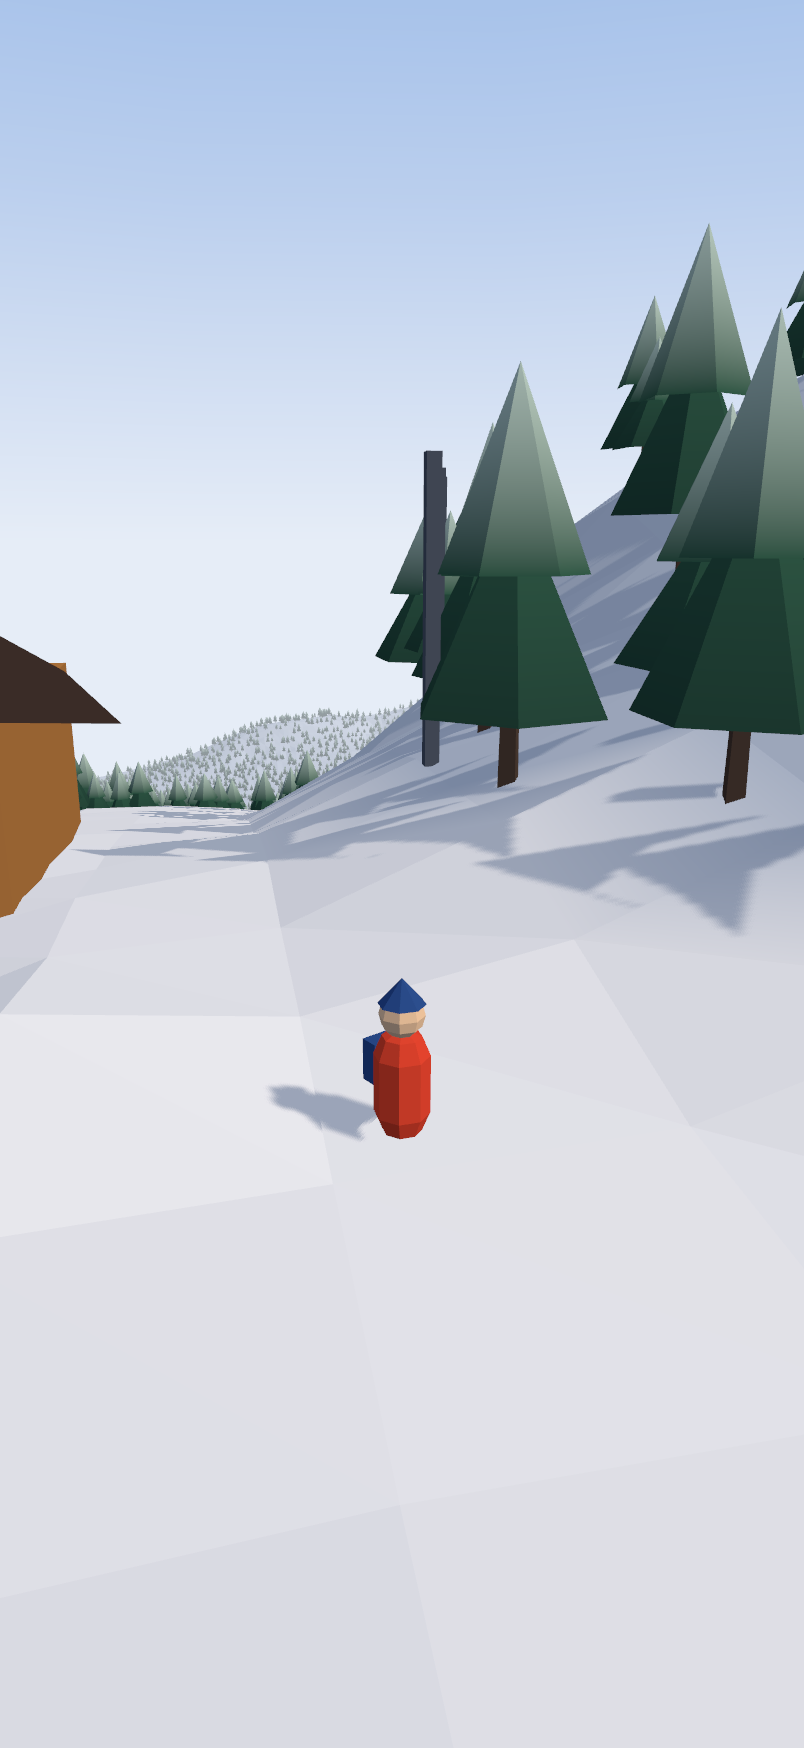
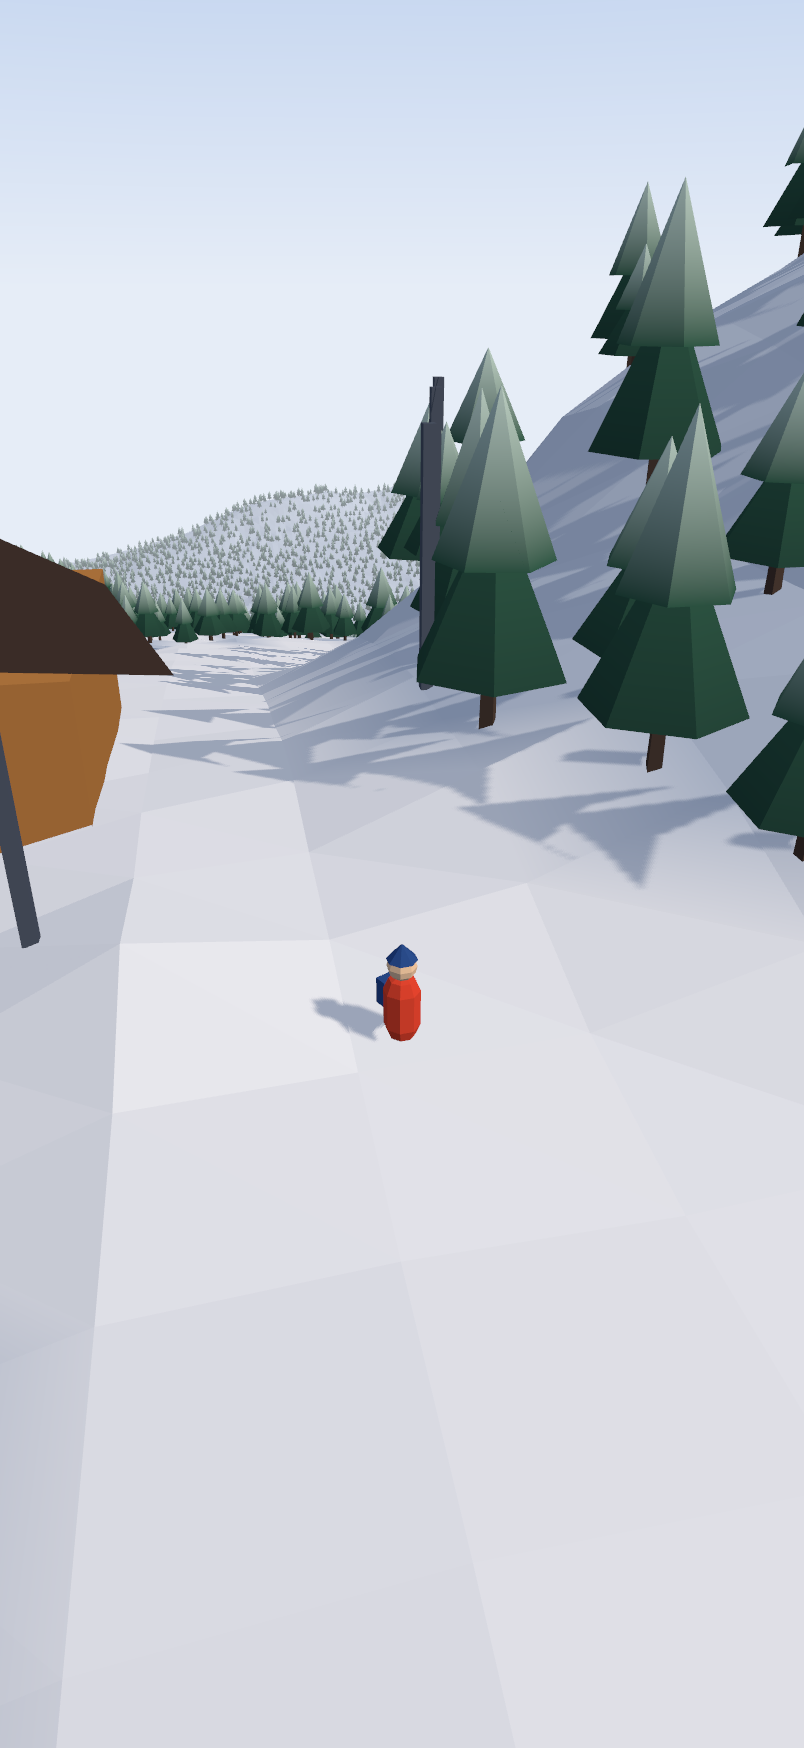
Pull the portrait camera back and up; walk faster
Playtest feedback: the thumb covered too much of the screen.

On an upright phone the camera now sits 17.5 m back (was 11.5) and looks
down at about 35 degrees (was 25), so the player takes about 7% of the
screen height and sits just below the middle with the horizon near the
top. Walking speed rises from 5 to 7.5 m/s so the smaller figure still
crosses the screen briskly. The movement stick is limited to the lower
half of the screen.

Add a zoom option (URL and Settings: closer, default, further, furthest)
so camera distance can be tuned on the phone.

Claude-Session: https://claude.ai/code/session_01KCD8wfrosBJ66eR6mMCCUF

diff --git a/src/player/cameraMath.test.ts b/src/player/cameraMath.test.ts
@@ -30,13 +30,39 @@ describe('framingFor', () => {
     expect(tall.pitch).toBeGreaterThan(wide.pitch);
   });
 
-  it('places the player below the middle of an upright screen but above the thumb', () => {
+  it('places the player just below the middle of an upright screen, above the thumb', () => {
     const f = framingFor(402 / 874);
     // How far below centre the player sits, as a fraction of half the screen height.
     const below = f.aimLift / Math.tan((f.fovDeg * Math.PI) / 360);
-    // Between 55% and 65% of the way down the screen; the thumb rests below about 70%.
-    expect(below).toBeGreaterThan(0.1);
-    expect(below).toBeLessThan(0.3);
+    // Roughly 52% to 60% of the way down the screen; the thumb rests below about 70%.
+    expect(below).toBeGreaterThan(0.05);
+    expect(below).toBeLessThan(0.2);
+  });
+
+  it('keeps the player small on an upright phone so a thumb hides little', () => {
+    const f = framingFor(402 / 874);
+    // Share of the screen height taken by a 1.9 m figure at the camera distance.
+    const share = 1.9 / (2 * f.distance * Math.tan((f.fovDeg * Math.PI) / 360));
+    expect(share).toBeLessThan(0.08);
+    expect(share).toBeGreaterThan(0.04);
+  });
+
+  it('looks down steeply enough to keep the horizon on screen but near the top', () => {
+    const f = framingFor(402 / 874);
+    const half = (f.fovDeg * Math.PI) / 360;
+    // Angle of the view axis below level, allowing for the aim point above the player.
+    const axisDown = f.pitch - Math.atan(f.aimLift * Math.cos(f.pitch));
+    const horizonAboveCentre = Math.tan(axisDown) / Math.tan(half);
+    expect(horizonAboveCentre).toBeGreaterThan(0.5);
+    expect(horizonAboveCentre).toBeLessThan(0.95);
+  });
+
+  it('scales distance with zoom and nothing else', () => {
+    const base = framingFor(402 / 874);
+    const far = framingFor(402 / 874, 1.3);
+    expect(far.distance).toBeCloseTo(base.distance * 1.3);
+    expect(far.pitch).toBe(base.pitch);
+    expect(far.fovDeg).toBe(base.fovDeg);
   });
 });
 

diff --git a/src/player/cameraMath.ts b/src/player/cameraMath.ts
@@ -22,20 +22,32 @@ export interface Framing {
   distance: number;
   /**
    * How far above the player the camera aims, as a fraction of `distance`. Aiming high pushes the
-   * player down the screen. On an upright phone they sit a little below the middle: low enough to
+   * player down the screen. On an upright phone they sit just below the middle: low enough to
    * leave the top half for the mountain, high enough to stay clear of the thumb, which rests in
    * the bottom third.
    */
   aimLift: number;
-  /** Starting camera pitch, in radians. Steeper when upright, so the tall view fills with slope, not sky. */
+  /** Starting camera pitch, in radians. */
   pitch: number;
 }
 
-export function framingFor(aspect: number): Framing {
+/**
+ * @param zoom multiplies the camera distance; above 1 pulls back.
+ *
+ * On an upright phone the camera sits well back and high, looking down at about 35 degrees. The
+ * player is small (roughly 7% of the screen height), so a thumb on the stick hides little of what
+ * matters, and the ground around them is laid out like a map with the horizon near the top.
+ */
+export function framingFor(aspect: number, zoom = 1): Framing {
   const fovDeg = verticalFovDeg(aspect);
   // 0 on a wide screen, 1 on an upright phone.
   const upright = (fovDeg - MIN_VERTICAL_FOV) / (MAX_VERTICAL_FOV - MIN_VERTICAL_FOV);
-  return { fovDeg, distance: 9 + 2.5 * upright, aimLift: 0.08 + 0.06 * upright, pitch: 0.32 + 0.12 * upright };
+  return {
+    fovDeg,
+    distance: (9 + 8.5 * upright) * zoom,
+    aimLift: 0.08 + 0.02 * upright,
+    pitch: 0.32 + 0.28 * upright,
+  };
 }
 
 /** Smallest signed difference between two angles, in -PI..PI. */

diff --git a/src/debug/hud.ts b/src/debug/hud.ts
@@ -21,6 +21,17 @@ interface Option {
 
 const OPTIONS: { title: string; param: string; current: (c: Config) => string; options: Option[] }[] = [
   {
+    title: 'Camera distance',
+    param: 'zoom',
+    current: (c) => String(c.zoom),
+    options: [
+      { label: 'Closer', value: '0.75' },
+      { label: 'Default', value: null },
+      { label: 'Further', value: '1.3' },
+      { label: 'Furthest', value: '1.6' },
+    ],
+  },
+  {
     title: 'Renderer',
     param: 'renderer',
     current: (c) => c.renderer,
@@ -80,6 +91,7 @@ const OPTIONS: { title: string; param: string; current: (c: Config) => string; o
 ];
 
 const DEFAULT_VALUE: Record<string, string> = {
+  zoom: '1',
   renderer: 'webgpu',
   trees: '10000',
   dpr: '2',
@@ -175,7 +187,8 @@ export class Hud {
     return (
       `${s.backend} ${s.width}x${s.height} @${s.pixelRatio}x | ${s.fps.toFixed(0)} fps, p95 ${s.p95Ms.toFixed(1)} ms, ` +
       `worst ${s.worstMs.toFixed(1)} ms | ${s.drawCalls} calls, ${(s.triangles / 1000).toFixed(0)}k tris | ` +
-      `trees ${s.trees}, stride ${this.cfg.stride}, view ${this.cfg.viewDist}, shadows ${this.cfg.shadows ? 'on' : 'off'} | ` +
+      `trees ${s.trees}, stride ${this.cfg.stride}, view ${this.cfg.viewDist}, shadows ${this.cfg.shadows ? 'on' : 'off'}, ` +
+      `zoom ${this.cfg.zoom} | ` +
       `${this.lastWhere} | ${navigator.userAgent}`
     );
   }

diff --git a/src/input/zones.test.ts b/src/input/zones.test.ts
@@ -5,15 +5,15 @@ describe('touchRole', () => {
   const W = 402;
   const H = 874;
 
-  it('uses the lower part of an upright phone for the stick, anywhere across its width', () => {
+  it('uses the lower half of an upright phone for the stick, anywhere across its width', () => {
     expect(touchRole(40, 700, W, H, false)).toBe('stick');
     expect(touchRole(360, 700, W, H, false)).toBe('stick');
-    expect(touchRole(200, 400, W, H, false)).toBe('stick');
+    expect(touchRole(200, 450, W, H, false)).toBe('stick');
   });
 
-  it('uses the upper part of an upright phone for the camera', () => {
+  it('uses the upper half of an upright phone for the camera', () => {
     expect(touchRole(200, 150, W, H, false)).toBe('look');
-    expect(touchRole(200, 360, W, H, false)).toBe('look');
+    expect(touchRole(200, 420, W, H, false)).toBe('look');
   });
 
   it('gives a second finger the camera while the stick is held', () => {

diff --git a/src/input/zones.ts b/src/input/zones.ts
@@ -1,13 +1,13 @@
 export type TouchRole = 'stick' | 'look';
 
 /** The share of an upright screen, measured from the top, that turns the camera. */
-export const LOOK_ZONE_PORTRAIT = 0.42;
+export const LOOK_ZONE_PORTRAIT = 0.5;
 
 /**
  * Decide what a new touch does.
  *
- * Upright phone (the way the game is meant to be played): the lower part of the screen is the
- * movement stick, where the thumb rests; the upper part drags the camera. Wide screens split left
+ * Upright phone (the way the game is meant to be played): the lower half of the screen is the
+ * movement stick, where the thumb rests; the upper half drags the camera. Wide screens split left
  * and right instead. While the stick is already held, any other finger turns the camera.
  */
 export function touchRole(x: number, y: number, width: number, height: number, stickHeld: boolean): TouchRole {

diff --git a/src/player/followCamera.ts b/src/player/followCamera.ts
@@ -19,11 +19,17 @@ export class FollowCamera {
   private readonly target = new THREE.Vector3();
   private readonly aim = new THREE.Vector3();
 
-  constructor(readonly camera: THREE.PerspectiveCamera) {}
+  /**
+   * @param zoom multiplies the camera distance; above 1 pulls back.
+   */
+  constructor(
+    readonly camera: THREE.PerspectiveCamera,
+    private readonly zoom = 1,
+  ) {}
 
   /** Fit the lens and framing to the screen shape. Call whenever the canvas is resized. */
   setAspect(aspect: number): void {
-    const framing = framingFor(aspect);
+    const framing = framingFor(aspect, this.zoom);
     this.camera.aspect = aspect;
     this.camera.fov = framing.fovDeg;
     this.camera.updateProjectionMatrix();

diff --git a/src/config.ts b/src/config.ts
@@ -17,6 +17,8 @@ export interface Config {
   pos: { x: number; z: number } | null;
   yaw: number | null;
   pitch: number | null;
+  /** Multiplies the camera distance; above 1 pulls back. */
+  zoom: number;
   hud: boolean;
 }
 
@@ -31,6 +33,7 @@ export const DEFAULTS: Config = {
   pos: null,
   yaw: null,
   pitch: null,
+  zoom: 1,
   hud: true,
 };
 
@@ -66,6 +69,7 @@ export function parseConfig(search: string): Config {
     pos,
     yaw: optNum(q.get('yaw')),
     pitch: optNum(q.get('pitch')),
+    zoom: num(q.get('zoom'), d.zoom, 0.4, 3),
     hud: q.get('hud') !== '0',
   };
 }

diff --git a/src/player/player.ts b/src/player/player.ts
@@ -1,7 +1,11 @@
 import * as THREE from 'three/webgpu';
 import type { Heightfield } from '../world/heightfield';
 
-export const WALK_SPEED = 5;
+/**
+ * Brisk for a figure this size, on purpose: the mountain is big, the camera sits well back, and a
+ * realistic walking pace would crawl across the screen.
+ */
+export const WALK_SPEED = 7.5;
 /** Debug travel speed, for crossing the mountain quickly while there are no skis yet. */
 export const FAST_SPEED = 40;
 

diff --git a/src/main.ts b/src/main.ts
@@ -90,7 +90,7 @@ async function boot(): Promise<void> {
   const player = new Player(cfg.shadows);
   scene.add(player.object);
   const camera = new THREE.PerspectiveCamera(55, 1, 0.3, 6000); // lens is set by follow.setAspect()
-  const follow = new FollowCamera(camera);
+  const follow = new FollowCamera(camera, cfg.zoom);
   const input = new Input(canvas);
 
   const summit = world.places.find((p) => p.id === 'summit');

diff --git a/src/config.test.ts b/src/config.test.ts
@@ -18,6 +18,9 @@ describe('parseConfig', () => {
     expect(c.pos).toEqual({ x: 12.5, z: -3 });
     expect(c.yaw).toBe(1.5);
     expect(c.pitch).toBeNull();
+    expect(c.zoom).toBe(1);
+    expect(parseConfig('?zoom=1.3').zoom).toBe(1.3);
+    expect(parseConfig('?zoom=99').zoom).toBe(3);
   });
 
   it('ignores junk values', () => {

diff --git a/CLAUDE.md b/CLAUDE.md
@@ -31,7 +31,7 @@ to GitHub Pages, and the owner playtests on an iPhone 17 Pro.
   read it. Headless Chromium uses software WebGL, so its frame rates are meaningless; only the
   phone's numbers count.
 - **Every state is a URL.** Debug options live in `src/config.ts` and are read from the query
-  string (`at`, `pos`, `yaw`, `pitch`, `trees`, `dpr`, `shadows`, `stride`, `view`, `renderer`,
+  string (`at`, `pos`, `yaw`, `pitch`, `zoom`, `trees`, `dpr`, `shadows`, `stride`, `view`, `renderer`,
   `hud`). Add new ones there rather than hard-coding. `window.__gore` exposes state for scripts.
 - **The world is generated, not edited.** `public/world/` comes from `tools/terrain/build_world.py`.
   Change the script and rerun it; never hand-edit the outputs. Trail and lift names come from
@@ -52,7 +52,8 @@ The game is designed only for an upright phone (402 x 874 points on the owner's 
 - Everything must be playable with one thumb. A second finger may add convenience, never necessity.
 - Things to read go at the top; things to press go in the bottom third, at least 44 points tall;
   menus are bottom sheets. Respect the safe-area insets.
-- The player sits a little below the middle of the screen, above where the thumb rests. Framing
+- The camera sits well back and high, so the player is small (about 7% of the screen height) and
+  sits just below the middle, above where the thumb rests. Framing
   and lens come from `framingFor()` in `src/player/cameraMath.ts`; touch zones from
   `src/input/zones.ts`.
 - Screenshots default to the upright phone size. Judge composition in that shape, not on a wide

diff --git a/docs/game-plan.md b/docs/game-plan.md
@@ -202,7 +202,8 @@ Small and simple: around 1,500 triangles, dot eyes or no face, chunky mittens an
 
 ### Composing for a tall screen
 
-- The player sits a little below the middle of the screen. The top half is the view; the bottom third belongs to the thumb and stays clear of anything that matters.
+- The camera sits well back and high, looking down at about 35 degrees. The player is small, around 7% of the screen height, and sits just below the middle. The top half is the view; the bottom third belongs to the thumb and stays clear of anything that matters.
+- Because the camera is far back, movement is brisk (7.5 m/s on foot) so the player still crosses the screen at a satisfying pace.
 - The lens is wider top to bottom than a landscape game's (about 80 degrees), so the view is not a narrow slot. Tall subjects suit it: a run falling away below, a lift line climbing overhead, the summit above the trees.
 - Things to read go at the top. Things to press go at the bottom, at least 44 points tall. Menus are sheets that slide up from the bottom edge.
 - The passport and trail map are drawn tall: summit at the top, town at the bottom, scrolled with the thumb.
